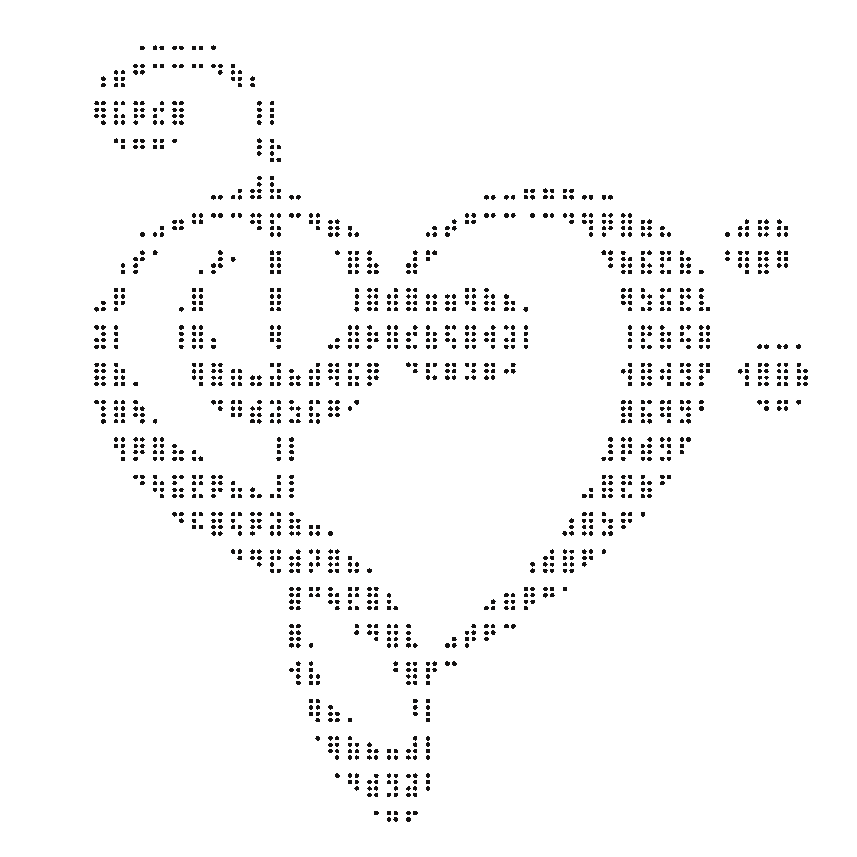
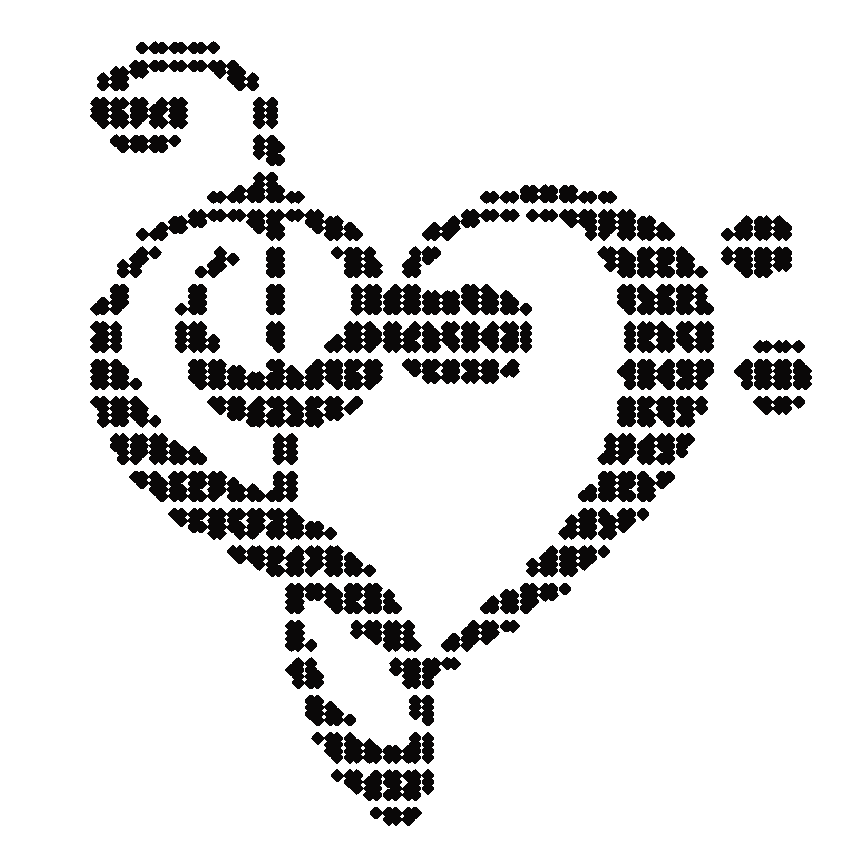
Contact head follows cursor, remove scroll-snap, ASCII art hero background
- Contact section: the portrait no longer rotates in place — it now
  follows the mouse anywhere in the section (low opacity by default)
  and turns fully opaque on hovering a button or the contact text.
  RotatingHead.jsx is now unused and removed.
- Remove scroll-snap-type/scroll-snap-align everywhere: sections no
  longer snap their top/bottom to the viewport edges. Instead each
  section's background/content fades in once ~20% of it has scrolled
  into view (IntersectionObserver in PortfolioHome.jsx toggling
  .section-visible), so "the next page" is signaled by that reveal
  rather than a snap.
- Hero: add the two ASCII-art graphics (extracted from the uploaded
  PDFs, backgrounds stripped) as decorative masks behind the
  statement — larger rose top-left, smaller vine on the right. Their
  color is a CSS mask filled by a grey that darkens with scroll
  progress through the hero, driven by a lightweight scroll listener.
- Nav heart icon: dilate the dot mask so it still reads as a dark,
  legible mark once downscaled to 26px (previously its sparse dots
  washed out to a faint smudge at that size).
- Remove the two small photos from the About section (main headshot
  only now), on both desktop and mobile.
- Reveal.jsx now forwards extra props (e.g. onMouseEnter/onMouseLeave)
  to its underlying motion element.

Claude-Session: https://claude.ai/code/session_015ndP6J2kgvcgKunf8RuFiJ

Changed region(s): [[0.091, 0.0303, 0.9708, 0.9708]]

diff --git a/folio/src/style/portfolio.css b/folio/src/style/portfolio.css
@@ -19,15 +19,11 @@
   background: var(--paper);
 }
 
-/* Prevent horizontal scroll without breaking position: sticky inside .portfolio
-   (overflow-x on that element would turn it into a scroll container).
-   scroll-snap-type here (not on a wrapper) gives every .stack-section a
-   consistent, deliberate "slide to the next screen" feel on scroll —
-   proximity rather than mandatory so it settles into place without
-   ever forcing a jump or trapping the scroll. */
+/* Prevent horizontal scroll without breaking position: sticky inside
+   .portfolio (overflow-x on that element would turn it into a scroll
+   container). */
 html {
   overflow-x: hidden;
-  scroll-snap-type: y proximity;
 }
 
 .portfolio * {
@@ -62,20 +58,26 @@ html {
   padding: clamp(3rem, 6vw, 6rem) clamp(1.5rem, 6vw, 5rem);
 }
 
-/* Each main section is a full-screen color "page" that the scroll
-   snaps cleanly to the top of — a consistent, deliberate slide from
-   screen to screen no matter how tall any one section's content is
-   (sticky-based pinning gave every section a different "stuck"
-   duration depending on its height, which read as inconsistent).
-   svh (stable "small" viewport height) instead of vh — vh recalculates
-   as a mobile browser's address bar shows/hides mid-scroll. */
+/* Each main section is a full-screen color "page". svh (stable "small"
+   viewport height) instead of vh — vh recalculates as a mobile
+   browser's address bar shows/hides mid-scroll.
+   A section's own color/background stays invisible until scrolled
+   far enough into view (.section-visible, toggled from
+   PortfolioHome.jsx via IntersectionObserver) rather than appearing
+   the instant its first pixel crosses into the viewport. */
 .stack-section {
   position: relative;
   min-height: 100vh;
   min-height: 100svh;
   border-radius: 40px 40px 0 0;
   box-shadow: 0 -30px 60px -30px rgba(32, 26, 20, 0.35);
-  scroll-snap-align: start;
+  opacity: 0;
+  transition: opacity 0.6s ease;
+}
+
+.hero-full.section-visible,
+.stack-section.section-visible {
+  opacity: 1;
 }
 
 /* Pull each section up over the tail end of the one before it (skips
@@ -234,15 +236,14 @@ html {
 /* ---------- hero ---------- */
 /* A normal full-screen section now — the statement scrolls up with
    the page like everything else instead of staying pinned behind a
-   separately-scrolling background layer. Still snaps like the other
-   pages for a consistent feel, just without their rounded top corners
-   (there's nothing above it to visually cut into). */
+   separately-scrolling background layer. */
 .hero-full {
   position: relative;
   min-height: 100vh;
   min-height: 100svh;
-  scroll-snap-align: start;
   background: var(--cream);
+  opacity: 0;
+  transition: opacity 0.6s ease;
   display: flex;
   flex-direction: column;
   align-items: center;
@@ -252,21 +253,43 @@ html {
   text-align: center;
 }
 
-.rotating-head-zone {
-  position: relative;
-  width: 100%;
-  aspect-ratio: 1;
+/* Decorative ASCII-art graphics behind the statement — rendered as a
+   CSS mask (their alpha channel) filled with a flat color, rather
+   than baked-in pixels, so that color can shift on scroll (see
+   --art-progress, set from Hero.jsx) without swapping images. */
+.hero-art {
+  position: absolute;
+  z-index: 0;
+  pointer-events: none;
+  -webkit-mask-image: var(--art-src);
+  mask-image: var(--art-src);
+  -webkit-mask-repeat: no-repeat;
+  mask-repeat: no-repeat;
+  -webkit-mask-size: contain;
+  mask-size: contain;
+  -webkit-mask-position: center;
+  mask-position: center;
+  background-color: hsl(0 0% calc(76% - var(--art-progress, 0) * 46%));
 }
 
-.rotating-head {
-  width: 100%;
-  height: 100%;
-  object-fit: cover;
-  border-radius: 50%;
-  border: 6px solid var(--paper);
-  box-shadow: 0 16px 32px rgba(32, 26, 20, 0.25);
-  transform-origin: 50% 50%;
-  transition: transform 0.06s linear;
+.hero-art-rose {
+  top: -6%;
+  left: -8%;
+  width: clamp(280px, 36vw, 480px);
+  aspect-ratio: 502 / 857;
+}
+
+.hero-art-vine {
+  bottom: 2%;
+  right: -6%;
+  width: clamp(170px, 20vw, 280px);
+  aspect-ratio: 571 / 772;
+}
+
+.hero-statement,
+.hero-full .scroll-cue {
+  position: relative;
+  z-index: 1;
 }
 
 .hero-statement {
@@ -749,7 +772,6 @@ html {
   position: relative;
   min-height: 100vh;
   min-height: 100svh;
-  scroll-snap-align: start;
   background: var(--ink);
   color: var(--paper);
   text-align: center;
@@ -774,10 +796,33 @@ html {
   margin: 0 auto;
 }
 
+/* Follows the cursor anywhere in the section (position set from
+   PortfolioFooter.jsx) instead of rotating in place — faint until you
+   hover a button or the contact text, where it turns fully opaque. */
 .footer-head-img {
-  width: clamp(180px, 20vw, 260px);
-  height: clamp(180px, 20vw, 260px);
-  margin-bottom: 2rem;
+  position: absolute;
+  top: 50%;
+  left: 50%;
+  transform: translate(-50%, -50%);
+  z-index: 0;
+  width: clamp(140px, 16vw, 210px);
+  height: clamp(140px, 16vw, 210px);
+  object-fit: cover;
+  border-radius: 50%;
+  border: 6px solid var(--paper);
+  box-shadow: 0 16px 32px rgba(0, 0, 0, 0.4);
+  opacity: 0.32;
+  pointer-events: none;
+  transition: top 0.15s ease-out, left 0.15s ease-out, opacity 0.3s ease;
+}
+
+.footer-head-img-opaque {
+  opacity: 1;
+}
+
+.contact-close {
+  position: relative;
+  z-index: 1;
 }
 
 .footer-links {
@@ -845,8 +890,7 @@ html {
 }
 
 /* Phones: lighten the effects that are cheapest to feel as jank on a
-   touch device — large blurred shadows, heavy backdrop blur. The
-   scroll-snap itself stays on at every width for a consistent feel. */
+   touch device — large blurred shadows, heavy backdrop blur. */
 @media (max-width: 640px) {
   * {
     -webkit-tap-highlight-color: transparent;
@@ -859,16 +903,6 @@ html {
 
   .stack-section + .stack-section {
     margin-top: -26px;
-  }
-
-  /* Sections scroll-snap flush to the top of the viewport, but the
-     nav is sticky and overlays that same top strip. Rather than pad
-     every section's content down (which reads as a big empty gap
-     above the title, especially mid-transition), shift where "top"
-     is for the snap itself, so the section settles just below the
-     nav with its normal padding intact. */
-  html {
-    scroll-padding-top: 68px;
   }
 
   .nav {

diff --git a/folio/src/components/portfolio/PortfolioFooter.jsx b/folio/src/components/portfolio/PortfolioFooter.jsx
@@ -1,14 +1,44 @@
+import { useEffect, useRef, useState } from 'react';
 import { profile } from '../../data/portfolio.js';
 import Reveal from './Reveal.jsx';
-import RotatingHead from './RotatingHead.jsx';
 import me from '../../assets/me.png';
 
 function PortfolioFooter() {
-  return (
-    <footer id="contact" className="pf-footer">
-      <RotatingHead src={me} alt="" className="footer-head-img" trackParent />
+  const footerRef = useRef(null);
+  const headRef = useRef(null);
+  const [isOpaque, setIsOpaque] = useState(false);
 
-      <Reveal y={20} className="contact-close">
+  useEffect(() => {
+    const footer = footerRef.current;
+    const head = headRef.current;
+    if (!footer || !head) return;
+
+    const handleMouseMove = (event) => {
+      const rect = footer.getBoundingClientRect();
+      head.style.left = `${event.clientX - rect.left}px`;
+      head.style.top = `${event.clientY - rect.top}px`;
+    };
+
+    footer.addEventListener('mousemove', handleMouseMove);
+    return () => footer.removeEventListener('mousemove', handleMouseMove);
+  }, []);
+
+  return (
+    <footer id="contact" className="pf-footer" ref={footerRef}>
+      <img
+        ref={headRef}
+        src={me}
+        alt=""
+        aria-hidden="true"
+        className={`footer-head-img${isOpaque ? ' footer-head-img-opaque' : ''}`}
+      />
+
+      <Reveal
+        y={20}
+        className="contact-close"
+        onMouseEnter={() => setIsOpaque(true)}
+        onMouseLeave={() => setIsOpaque(false)}
+      >
         <span className="eyebrow">Contact</span>
         <h2 className="accent">Contact me!</h2>
         <p>

diff --git a/folio/src/components/portfolio/Hero.jsx b/folio/src/components/portfolio/Hero.jsx
@@ -1,6 +1,39 @@
+import { useEffect, useRef } from 'react';
+import roseArt from '../../assets/ascii-art-rose.png';
+import vineArt from '../../assets/ascii-art-vine.png';
+
 function Hero() {
+  const sectionRef = useRef(null);
+
+  useEffect(() => {
+    const section = sectionRef.current;
+    if (!section) return;
+
+    let ticking = false;
+    const updateProgress = () => {
+      const rect = section.getBoundingClientRect();
+      const progress = Math.min(1, Math.max(0, -rect.top / Math.max(rect.height, 1)));
+      section.style.setProperty('--art-progress', progress.toFixed(3));
+      ticking = false;
+    };
+
+    const onScroll = () => {
+      if (!ticking) {
+        ticking = true;
+        requestAnimationFrame(updateProgress);
+      }
+    };
+
+    updateProgress();
+    window.addEventListener('scroll', onScroll, { passive: true });
+    return () => window.removeEventListener('scroll', onScroll);
+  }, []);
+
   return (
-    <section id="hero" className="hero-full">
+    <section id="hero" className="hero-full" ref={sectionRef}>
+      <div className="hero-art hero-art-rose" aria-hidden="true" style={{ '--art-src': `url(${roseArt})` }} />
+      <div className="hero-art hero-art-vine" aria-hidden="true" style={{ '--art-src': `url(${vineArt})` }} />
+
       <h1 className="hero-statement">
         <span className="accent">Cara Kulhanjian</span> / Research, Data &amp; Design / studying Computer
         Science at the University of Florida

diff --git a/folio/src/components/PortfolioHome.jsx b/folio/src/components/PortfolioHome.jsx
@@ -1,3 +1,4 @@
+import { useEffect } from 'react';
 import '../style/portfolio.css';
 import Nav from './portfolio/Nav.jsx';
 import Hero from './portfolio/Hero.jsx';
@@ -15,6 +16,30 @@ import useIsMobile from '../hooks/useIsMobile.js';
 // no separate navigation at all.
 function PortfolioHome() {
   const isMobile = useIsMobile();
+
+  // Desktop only: each section's own color/background stays invisible
+  // until a meaningful chunk of it has scrolled into view, rather than
+  // popping in the instant its first pixel crosses the viewport edge.
+  // Sections don't snap into place anymore — this reveal is what
+  // signals "the next page" instead.
+  useEffect(() => {
+    if (isMobile) return;
+    const sections = document.querySelectorAll('.hero-full, .stack-section');
+    if (!sections.length) return;
+
+    const observer = new IntersectionObserver(
+      (entries) => {
+        entries.forEach((entry) => {
+          if (entry.isIntersecting) {
+            entry.target.classList.add('section-visible');
+          }
+        });
+      },
+      { threshold: 0.2 }
+    );
+    sections.forEach((section) => observer.observe(section));
+    return () => observer.disconnect();
+  }, [isMobile]);
 
   if (isMobile) {
     return (

diff --git a/folio/src/components/portfolio/MobileStack.jsx b/folio/src/components/portfolio/MobileStack.jsx
@@ -1,8 +1,6 @@
 import { useState } from 'react';
 import { profile, research, academics, skills, experience, resumeFileUrl } from '../../data/portfolio.js';
 import headshotDots from '../../assets/about-headshot-dots.jpg';
-import candidDots from '../../assets/about-candid-dots.jpg';
-import laptopScreen from '../../assets/about-laptop-screen.jpg';
 import me from '../../assets/me.png';
 import PhotoStack from './PhotoStack.jsx';
 
@@ -37,16 +35,6 @@ function AboutBody() {
             <img src={headshotDots} alt={profile.name} />
             <figcaption>{profile.name}</figcaption>
           </figure>
-          <div className="about-photo-row">
-            <figure className="about-photo about-photo-small">
-              <img src={candidDots} alt="Working on a side project" />
-              <figcaption>Deep in a side project</figcaption>
-            </figure>
-            <figure className="about-photo about-photo-small">
-              <img src={laptopScreen} alt="Code editor showing a networking project" />
-              <figcaption>Networking project, mid-build</figcaption>
-            </figure>
-          </div>
         </div>
         <p className="hero-meta">{profile.meta}</p>
       </div>

diff --git a/folio/src/components/portfolio/About.jsx b/folio/src/components/portfolio/About.jsx
@@ -1,7 +1,5 @@
 import { profile } from '../../data/portfolio.js';
 import headshotDots from '../../assets/about-headshot-dots.jpg';
-import candidDots from '../../assets/about-candid-dots.jpg';
-import laptopScreen from '../../assets/about-laptop-screen.jpg';
 import Reveal from './Reveal.jsx';
 
 function About() {
@@ -34,16 +32,6 @@ function About() {
             <img src={headshotDots} alt={profile.name} />
             <figcaption>{profile.name}</figcaption>
           </figure>
-          <div className="about-photo-row">
-            <figure className="about-photo about-photo-small">
-              <img src={candidDots} alt="Working on a side project" />
-              <figcaption>Deep in a side project</figcaption>
-            </figure>
-            <figure className="about-photo about-photo-small">
-              <img src={laptopScreen} alt="Code editor showing a networking project" />
-              <figcaption>Networking project, mid-build</figcaption>
-            </figure>
-          </div>
         </Reveal>
       </div>
     </section>

diff --git a/folio/src/components/portfolio/Reveal.jsx b/folio/src/components/portfolio/Reveal.jsx
@@ -10,6 +10,7 @@ function Reveal({
   once = true,
   amount = 0.15,
   as = 'div',
+  ...rest
 }) {
   const MotionTag = motion[as] || motion.div;
   return (
@@ -19,6 +20,7 @@ function Reveal({
       whileInView={{ opacity: 1, y: 0, x: 0 }}
       viewport={{ once, amount }}
       transition={{ duration, delay, ease: [0.22, 1, 0.36, 1] }}
+      {...rest}
     >
       {children}
     </MotionTag>
